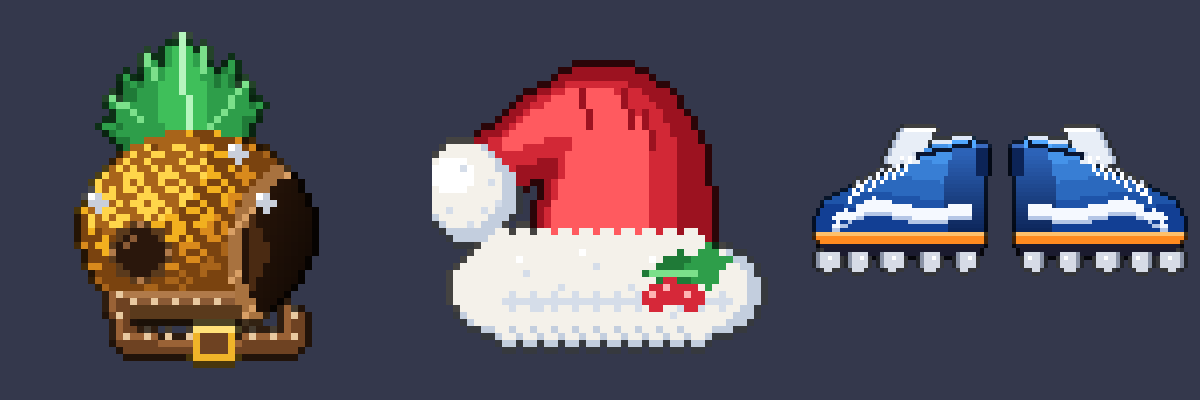
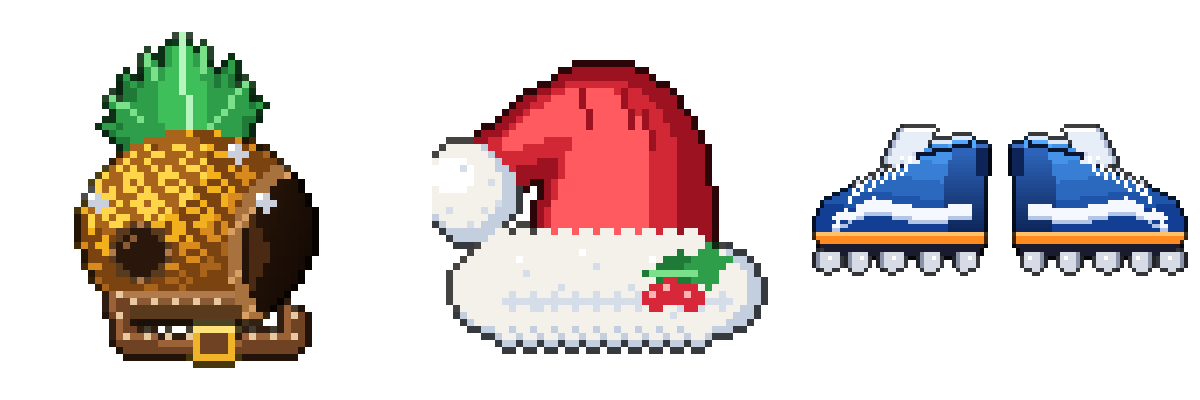
fix(accesorios): eliminar fondos opacos, calibrar superposicion pixel-perfect y estilizar tienda con resplandor morado legendario

diff --git a/js/core/accessories.js b/js/core/accessories.js
@@ -31,13 +31,13 @@ if (mapAssets) {
 
 function getMapAssetSource(sheetKey) {
   if (!mapAssets) return null;
-  if (sheetKey === 'map_lentes') return { img: mapAssets.lentes, sx: 0, sy: 0, sw: 384, sh: 384 };
-  if (sheetKey === 'map_sheriff') return { img: mapAssets.sheriff, sx: 0, sy: 0, sw: 384, sh: 384 };
-  if (sheetKey === 'map_guitarra') return { img: mapAssets.guitarra, sx: 0, sy: 0, sw: 768, sh: 768 };
-  if (sheetKey === 'map_lampara') return { img: mapAssets.lampara, sx: 0, sy: 0, sw: 512, sh: 512 };
-  if (sheetKey === 'map_preview_pineapple') return { img: mapAssets.preview, sx: 0, sy: 0, sw: 400, sh: 400 };
-  if (sheetKey === 'map_preview_santa') return { img: mapAssets.preview, sx: 400, sy: 0, sw: 400, sh: 400 };
-  if (sheetKey === 'map_preview_skates') return { img: mapAssets.preview, sx: 800, sy: 0, sw: 400, sh: 400 };
+  if (sheetKey === 'map_lentes') return { img: mapAssets.lentes, sx: 0, sy: 32, sw: 384, sh: 328 };
+  if (sheetKey === 'map_sheriff') return { img: mapAssets.sheriff, sx: 32, sy: 8, sw: 320, sh: 368 };
+  if (sheetKey === 'map_guitarra') return { img: mapAssets.guitarra, sx: 32, sy: 128, sw: 640, sh: 600 };
+  if (sheetKey === 'map_lampara') return { img: mapAssets.lampara, sx: 8, sy: 0, sw: 497, sh: 509 };
+  if (sheetKey === 'map_preview_pineapple') return { img: mapAssets.preview, sx: 74, sy: 32, sw: 245, sh: 336 };
+  if (sheetKey === 'map_preview_santa') return { img: mapAssets.preview, sx: 432, sy: 60, sw: 336, sh: 294 };
+  if (sheetKey === 'map_preview_skates') return { img: mapAssets.preview, sx: 812, sy: 124, sw: 376, sh: 152 };
   return null;
 }
 
@@ -352,7 +352,7 @@ export const ACCESSORIES = {
     desc: 'Lentes estrella de fiesta retro: +10% puntos y monedas, +5% daño con combo x5 o superior.',
     stats: { hp: '-', spd: '-', dmg: '+5% Combo', perk: '+10% Puntos +Daño' },
     sheet: 'map_lentes',
-    dw: 38, dh: 22, ox: -19, oy: -12
+    dw: 38, dh: 32, ox: -19, oy: -23
   },
   thermal_gloves: {
     id: 'thermal_gloves',
@@ -365,21 +365,20 @@ export const ACCESSORIES = {
     desc: 'Farol de hornallas vivas: Inmunidad total al resbalón por aceite y +7% cadencia de disparo.',
     stats: { hp: '-', spd: '-', dmg: '+7% Cadencia', perk: 'Anti-Aceite +Cadencia' },
     sheet: 'map_lampara',
-    dw: 32, dh: 32, ox: 14, oy: 0
+    dw: 26, dh: 27, ox: 14, oy: -4
   },
   reflect_vest: {
     id: 'reflect_vest',
-    name: 'Patines de Delivery',
+    name: 'Guitarra Callejera',
     tier: 'cartography',
-    category: 'Calzado',
+    category: 'Espalda',
     layer: 'front',
     cost: 0,
-    icon: '🛼',
-    desc: 'Patines veloces de asfalto: +20% daño de embestida con dash y recarga de dash 12% más rápida.',
+    icon: '🎸',
+    desc: 'Guitarra acústica de reparto: +20% daño de embestida con dash y recarga de dash 12% más rápida.',
     stats: { hp: '-', spd: '-', dmg: '+20% Dash', perk: '+Dash Dmg & -Recarga' },
-    sheet: 'map_preview_skates',
-    sx: 800, sy: 0, sw: 400, sh: 400,
-    dw: 44, dh: 22, ox: -22, oy: 12
+    sheet: 'map_guitarra',
+    dw: 42, dh: 40, ox: -14, oy: -18
   },
   thermal_scarf: {
     id: 'thermal_scarf',
@@ -392,8 +391,7 @@ export const ACCESSORIES = {
     desc: 'Gorro festivo invernal con pompón: -60% reducción de velocidad por frío ambiental y +12 HP máx.',
     stats: { hp: '+12', spd: 'Anti-Frío', dmg: '-', perk: '+12 HP & Anti-Frío' },
     sheet: 'map_preview_santa',
-    sx: 400, sy: 0, sw: 400, sh: 400,
-    dw: 48, dh: 38, ox: -24, oy: -40
+    dw: 42, dh: 37, ox: -21, oy: -53
   },
   thorn_boots: {
     id: 'thorn_boots',
@@ -406,20 +404,20 @@ export const ACCESSORIES = {
     desc: 'Insignia dorada del sheriff: Inmunidad total al daño de cactus y +8% velocidad en arena.',
     stats: { hp: '-', spd: '+8% Arena', dmg: '-', perk: 'Inmune Espinas' },
     sheet: 'map_sheriff',
-    dw: 26, dh: 26, ox: -13, oy: 2
+    dw: 22, dh: 25, ox: -11, oy: -2
   },
   captain_cleats: {
     id: 'captain_cleats',
-    name: 'Guitarra de Tribuna',
+    name: 'Botines de Capitán',
     tier: 'cartography',
-    category: 'Espalda',
+    category: 'Calzado',
     layer: 'front',
     cost: 0,
-    icon: '🎸',
-    desc: 'Guitarra de aliento acústica: +30% velocidad y daño al patear pelotas/cocos y +8% velocidad.',
+    icon: '👟',
+    desc: 'Botines con tapones de fútbol: +30% velocidad y daño al patear pelotas/cocos y +8% velocidad.',
     stats: { hp: '-', spd: '+8%', dmg: '+30% Patadas', perk: '+Potencia Patadas' },
-    sheet: 'map_guitarra',
-    dw: 40, dh: 40, ox: 6, oy: -8
+    sheet: 'map_preview_skates',
+    dw: 42, dh: 17, ox: -21, oy: 7
   },
   tropical_visor: {
     id: 'tropical_visor',
@@ -432,8 +430,7 @@ export const ACCESSORIES = {
     desc: 'Casco de piña tropical: +15% duración de efectos de comida y +7% probabilidad de golpe crítico.',
     stats: { hp: '-', spd: '-', dmg: '+7% Crítico', perk: '+Duración & +Crítico' },
     sheet: 'map_preview_pineapple',
-    sx: 0, sy: 0, sw: 400, sh: 400,
-    dw: 44, dh: 44, ox: -22, oy: -46
+    dw: 36, dh: 49, ox: -18, oy: -63
   },
   pineapple_hat: {
     id: 'pineapple_hat',
@@ -446,8 +443,7 @@ export const ACCESSORIES = {
     desc: 'Casco de piña tropical: +15% duración de efectos de comida y +7% probabilidad de golpe crítico.',
     stats: { hp: '-', spd: '-', dmg: '+7% Crítico', perk: '+Duración & +Crítico' },
     sheet: 'map_preview_pineapple',
-    sx: 0, sy: 0, sw: 400, sh: 400,
-    dw: 44, dh: 44, ox: -22, oy: -46
+    dw: 36, dh: 49, ox: -18, oy: -63
   }
 };
 
@@ -775,11 +771,12 @@ export function drawAccessoryIcon(ctx, id, cx, cy, boxSize = 48) {
   if (acc.sheet && acc.sheet.startsWith('map_')) {
     const src = getMapAssetSource(acc.sheet);
     if (src && src.img && src.img.complete && src.img.naturalWidth > 0) {
-      const pad = boxSize * 0.12;
-      const targetW = boxSize - pad * 2;
-      const targetH = boxSize - pad * 2;
+      const maxDim = boxSize * 0.78;
+      const scale = Math.min(maxDim / src.sw, maxDim / src.sh);
+      const targetW = Math.round(src.sw * scale);
+      const targetH = Math.round(src.sh * scale);
       ctx.imageSmoothingEnabled = false;
-      ctx.drawImage(src.img, src.sx, src.sy, src.sw, src.sh, cx - targetW / 2, cy - targetH / 2, targetW, targetH);
+      ctx.drawImage(src.img, src.sx, src.sy, src.sw, src.sh, Math.round(cx - targetW / 2), Math.round(cy - targetH / 2), targetW, targetH);
     } else {
       const s = boxSize / 48;
       ctx.save();

diff --git a/js/core/presentation.js b/js/core/presentation.js
@@ -93,12 +93,17 @@ export function drawItemPreview(canvas,item,profile,time=0){
   // Fondo de vitrina con degradado atmosférico
   const accMeta = item.type === 'accessory' ? resolveAccessory(item.id) : null;
   const isLegendary = accMeta?.tier === 'legendary' || item.tier === 'legendary';
+  const isCartography = accMeta?.tier === 'cartography' || item.tier === 'cartography' || item.cartographyExclusive;
 
   const bgGrad = c.createRadialGradient(w/2, h*0.5, 10, w/2, h*0.5, w*0.7);
   if (isLegendary) {
     bgGrad.addColorStop(0, '#3d2b0f');
     bgGrad.addColorStop(0.5, '#241a08');
     bgGrad.addColorStop(1, '#0e0b04');
+  } else if (isCartography) {
+    bgGrad.addColorStop(0, '#350b45');
+    bgGrad.addColorStop(0.5, '#1e0529');
+    bgGrad.addColorStop(1, '#0d0212');
   } else {
     bgGrad.addColorStop(0, '#1a333a');
     bgGrad.addColorStop(0.6, '#102227');
@@ -106,7 +111,7 @@ export function drawItemPreview(canvas,item,profile,time=0){
   }
   c.fillStyle = bgGrad; c.fillRect(0, 0, w, h);
 
-  const gridColor = isLegendary ? 'rgba(251, 191, 36, 0.08)' : '#38bdf80a';
+  const gridColor = isLegendary ? 'rgba(251, 191, 36, 0.08)' : isCartography ? 'rgba(192, 132, 252, 0.08)' : '#38bdf80a';
   for(let x=0;x<w;x+=24){c.fillStyle=gridColor;c.fillRect(x,0,1,h);}
 
   // Pedestal con resplandor de vitrina
@@ -115,26 +120,38 @@ export function drawItemPreview(canvas,item,profile,time=0){
     pedGlow.addColorStop(0, 'rgba(251, 191, 36, 0.42)');
     pedGlow.addColorStop(0.6, '#31230d');
     pedGlow.addColorStop(1, 'transparent');
+  } else if (isCartography) {
+    pedGlow.addColorStop(0, 'rgba(192, 132, 252, 0.45)');
+    pedGlow.addColorStop(0.6, '#280738');
+    pedGlow.addColorStop(1, 'transparent');
   } else {
     pedGlow.addColorStop(0, 'rgba(56, 189, 248, 0.22)');
     pedGlow.addColorStop(0.6, '#0f1e24');
     pedGlow.addColorStop(1, 'transparent');
   }
   c.fillStyle = pedGlow; c.beginPath(); c.ellipse(w/2, h*.78, w*.33, h*.13, 0, 0, Math.PI * 2); c.fill();
-  c.strokeStyle = isLegendary ? '#fbbf24' : '#38bdf888'; c.lineWidth = 2; c.stroke();
+  c.strokeStyle = isLegendary ? '#fbbf24' : isCartography ? '#c084fc' : '#38bdf888'; c.lineWidth = 2; c.stroke();
 
-  // Partículas y destellos dorados en la vitrina para legendarios
-  if (isLegendary) {
+  // Partículas y destellos en la vitrina
+  if (isLegendary || isCartography) {
     c.save();
     for (let i = 0; i < 6; i++) {
       const px = (w * 0.22) + ((i * 47 + Math.sin(time * 3 + i) * 18) % (w * 0.56));
       const py = (h * 0.72) - ((time * 25 + i * 28) % (h * 0.45));
       const sparkAlpha = Math.max(0, Math.sin(time * 4 + i));
-      c.fillStyle = `rgba(254, 240, 138, ${sparkAlpha * 0.85})`;
-      c.fillRect(px, py, 2.5, 2.5);
-      c.fillStyle = `rgba(251, 191, 36, ${sparkAlpha * 0.45})`;
-      c.fillRect(px - 1, py, 4.5, 1);
-      c.fillRect(px, py - 1, 1, 4.5);
+      if (isLegendary) {
+        c.fillStyle = `rgba(254, 240, 138, ${sparkAlpha * 0.85})`;
+        c.fillRect(px, py, 2.5, 2.5);
+        c.fillStyle = `rgba(251, 191, 36, ${sparkAlpha * 0.45})`;
+        c.fillRect(px - 1, py, 4.5, 1);
+        c.fillRect(px, py - 1, 1, 4.5);
+      } else {
+        c.fillStyle = `rgba(243, 232, 255, ${sparkAlpha * 0.85})`;
+        c.fillRect(px, py, 2.5, 2.5);
+        c.fillStyle = `rgba(192, 132, 252, ${sparkAlpha * 0.55})`;
+        c.fillRect(px - 1, py, 4.5, 1);
+        c.fillRect(px, py - 1, 1, 4.5);
+      }
     }
     c.restore();
   }

diff --git a/js/data/shop.js b/js/data/shop.js
@@ -42,17 +42,17 @@ export const shopItems = [
   // Accesorios Exclusivos de Cartografía (Recompensa de Misiones de Mapa)
   {id:'ticket_gold',type:'accessory',name:'Lentes de Fiesta',cost:0,cartographyExclusive:true,icon:'🕶',description:'Misión Local DOMI: Lentes de fiesta retro (+10% puntos/monedas y +5% daño con combo x5 o superior).'},
   {id:'thermal_gloves',type:'accessory',name:'Farol Gourmet',cost:0,cartographyExclusive:true,icon:'🏮',description:'Misión Cocina: Farol de hornallas (Inmunidad al aceite y +7% cadencia de disparo).'},
-  {id:'reflect_vest',type:'accessory',name:'Patines de Delivery',cost:0,cartographyExclusive:true,icon:'🛼',description:'Misión Estacionamiento: Patines de asfalto (+20% daño de embestida con dash y -12% recarga).'},
+  {id:'reflect_vest',type:'accessory',name:'Guitarra Callejera',cost:0,cartographyExclusive:true,icon:'🎸',description:'Misión Estacionamiento: Guitarra acústica de reparto (+20% daño de embestida con dash y -12% recarga).'},
   {id:'thermal_scarf',type:'accessory',name:'Gorro Invernal',cost:0,cartographyExclusive:true,icon:'🎅',description:'Misión Nevado: Gorro festivo con pompón (-60% ralentización por frío y +12 HP máx).'},
   {id:'thorn_boots',type:'accessory',name:'Estrella de Sheriff',cost:0,cartographyExclusive:true,icon:'⭐',description:'Misión Desierto: Insignia dorada (Inmunidad al daño de cactus y +8% velocidad en arena).'},
-  {id:'captain_cleats',type:'accessory',name:'Guitarra de Tribuna',cost:0,cartographyExclusive:true,icon:'🎸',description:'Misión Cancha: Guitarra de aliento (+30% velocidad y daño al patear pelotas/cocos y +8% velocidad).'},
-  {id:'tropical_visor',type:'accessory',name:'Sombrero de Piña',cost:0,cartographyExclusive:true,icon:'🍍',description:'Misión Playa: Casco tropical (+15% duración de comida y +7% golpe crítico).'},
-  {id:'pineapple_hat',type:'accessory',name:'Sombrero de Piña',cost:0,cartographyExclusive:true,icon:'🍍',description:'Maestría Costera: Casco tropical (+15% duración de comida y +7% golpe crítico).'},
+  {id:'captain_cleats',type:'accessory',name:'Botines de Capitán',cost:0,cartographyExclusive:true,icon:'👟',description:'Misión Cancha: Botines con tapones de fútbol (+30% velocidad y daño al patear pelotas/cocos y +8% velocidad).'},
+  {id:'tropical_visor',type:'accessory',name:'Sombrero de Piña',cost:0,cartographyExclusive:true,icon:'🍍',description:'Misión Playa: Casco tropical (+15% duración de comida y +7% golpe crítico).'}
 ];
 
 const LEGACY_MAP = {
   cyber_shades: 'shades',
   headband: 'cap',
+  pineapple_hat: 'tropical_visor',
   red_bandana: 'party_hat',
   neon_cap: 'cap',
   magic_hat: 'wizard_hat',

diff --git a/css/shop.css b/css/shop.css
@@ -31,6 +31,58 @@
   box-shadow: 6px 6px 0 #000, 0 0 22px rgba(250, 204, 21, 0.65) !important;
 }
 
+/* Recuadros de selección con técnica legendaria: iluminación y contorno morado para accesorios de mapa */
+.catalog-item[data-cartography="true"],
+.catalog-item[data-tier="cartography"] {
+  border-color: #9333ea !important;
+  background: radial-gradient(circle at 50% 30%, #2f0d38 0%, #15061c 100%) !important;
+  box-shadow: 4px 4px 0 #000, 0 0 16px rgba(184, 68, 255, 0.35) !important;
+}
+.catalog-item[data-cartography="true"]:hover,
+.catalog-item[data-tier="cartography"]:hover {
+  border-color: #c084fc !important;
+  box-shadow: 6px 6px 0 #000, 0 0 22px rgba(192, 132, 252, 0.6) !important;
+}
+.catalog-item[data-cartography="true"][aria-pressed="true"],
+.catalog-item[data-tier="cartography"][aria-pressed="true"] {
+  border-color: #f3e8ff !important;
+  box-shadow: 6px 6px 0 #000, 0 0 26px rgba(216, 180, 254, 0.75) !important;
+}
+.catalog-item[data-cartography="true"] .catalog-status,
+.catalog-item[data-tier="cartography"] .catalog-status {
+  color: #c084fc !important;
+}
+.catalog-item[data-cartography="true"] .catalog-name,
+.catalog-item[data-tier="cartography"] .catalog-name {
+  color: #f3e8ff !important;
+}
+.catalog-item[data-cartography="true"] .catalog-lock svg,
+.catalog-item[data-tier="cartography"] .catalog-lock svg {
+  color: #c084fc !important;
+  border-color: #9333ea !important;
+  background: #170722e8 !important;
+  box-shadow: 4px 4px 0 #000, 0 0 10px rgba(184, 68, 255, 0.35) !important;
+}
+
+/* Detalle lateral de la tienda con técnica morada */
+.shop-detail--cartography {
+  border-top-color: #c084fc !important;
+  box-shadow: 8px 8px 0 #050a0d, 0 0 22px rgba(192, 132, 252, 0.35) !important;
+}
+.shop-detail--cartography .detail-top {
+  color: #c084fc !important;
+}
+.shop-detail--cartography .arcade-action {
+  background: #581c87 !important;
+  border-color: #a855f7 !important;
+  box-shadow: 2px 2px 0 #000, 0 0 12px rgba(184, 68, 255, 0.45) !important;
+}
+.shop-detail--cartography .arcade-action:hover {
+  background: #6b21a8 !important;
+  border-color: #c084fc !important;
+  box-shadow: 2px 2px 0 #000, 0 0 18px rgba(192, 132, 252, 0.65) !important;
+}
+
 /* Miniatura visual de recompensa en misiones del Señor Domi */
 .domi-reward-mini-canvas {
   width: 38px !important;

diff --git a/js/ui/shop.js b/js/ui/shop.js
@@ -99,6 +99,12 @@ export class Shop{
       const displayDesc=isMysteryLava?'??? · ???':item.description;
       const statusText=equipped?'Equipado':owned?'Listo para equipar':isMysteryLava?'???':item.cartographyExclusive?'Misión de Mapa':item.domiExclusive?'Misión Don Domi':`${item.cost.toLocaleString('es-AR')} PT`;
       const button=node('button','catalog-item');button.type='button';button.dataset.item=item.id;button.dataset.type=item.type;button.dataset.owned=String(Boolean(owned));
+      if(item.cartographyExclusive){
+        button.dataset.cartography='true';
+        button.dataset.tier='cartography';
+      }else if(item.domiExclusive||String(item.id).startsWith('leg_')){
+        button.dataset.tier='legendary';
+      }
       button.setAttribute('aria-label',`${displayName}, ${statusText}. Ver detalle`);button.setAttribute('aria-pressed',String(this.selected?.id===item.id));button.setAttribute('aria-controls','shopDetail');
       const art=node('div','catalog-art');const canvas=document.createElement('canvas');canvas.width=280;canvas.height=180;canvas.setAttribute('aria-hidden','true');drawItemPreview(canvas,item,profile);
       art.append(canvas);
@@ -121,6 +127,7 @@ export class Shop{
   }
   renderDetail(){
     const root=document.querySelector('#shopDetail');root.replaceChildren();this.previewCanvas=null;const item=this.selected;
+    root.classList.toggle('shop-detail--cartography',Boolean(item?.cartographyExclusive));
     if(!item){root.append(node('p','detail-placeholder','Elegí un artículo para verlo en el probador.'));return;}
     const profile=this.account.currentAccount();if(!profile)return;
     const owned=isOwned(profile,item.type,item.id),equipped=profile.loadout[item.type]===item.id;

diff --git a/js/ui/atlasScreen.js b/js/ui/atlasScreen.js
@@ -69,8 +69,8 @@ export const REGIONS = [
     missionDesc: 'Derribar a 12 enemigos con acelerón (dash)',
     target: 12,
     accessoryId: 'reflect_vest',
-    accessoryName: 'Patines de Delivery',
-    accessoryDesc: 'Patines veloces de asfalto: +20% daño de embestida con dash y recarga -12%.'
+    accessoryName: 'Guitarra Callejera',
+    accessoryDesc: 'Guitarra acústica de asfalto: +20% daño de embestida con dash y recarga -12%.'
   },
   {
     id: 'snow',
@@ -135,8 +135,8 @@ export const REGIONS = [
     missionDesc: 'Golpear a 8 enemigos con pelotas pateadas',
     target: 8,
     accessoryId: 'captain_cleats',
-    accessoryName: 'Guitarra de Tribuna',
-    accessoryDesc: 'Guitarra acústica de hinchada: +30% velocidad y daño al patear pelotas/cocos, +8% velocidad.'
+    accessoryName: 'Botines de Capitán',
+    accessoryDesc: 'Botines con tapones de fútbol: +30% velocidad y daño al patear pelotas/cocos, +8% velocidad.'
   },
   {
     id: 'beach',
